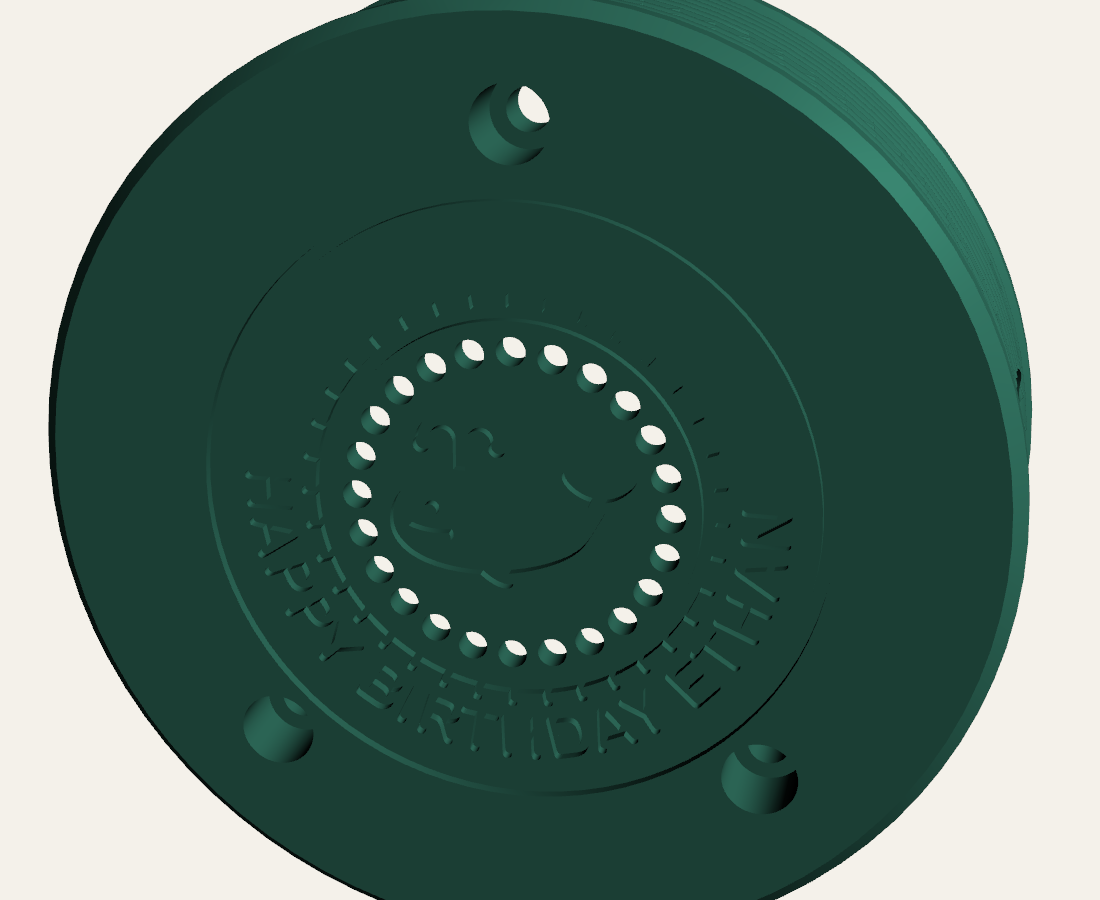
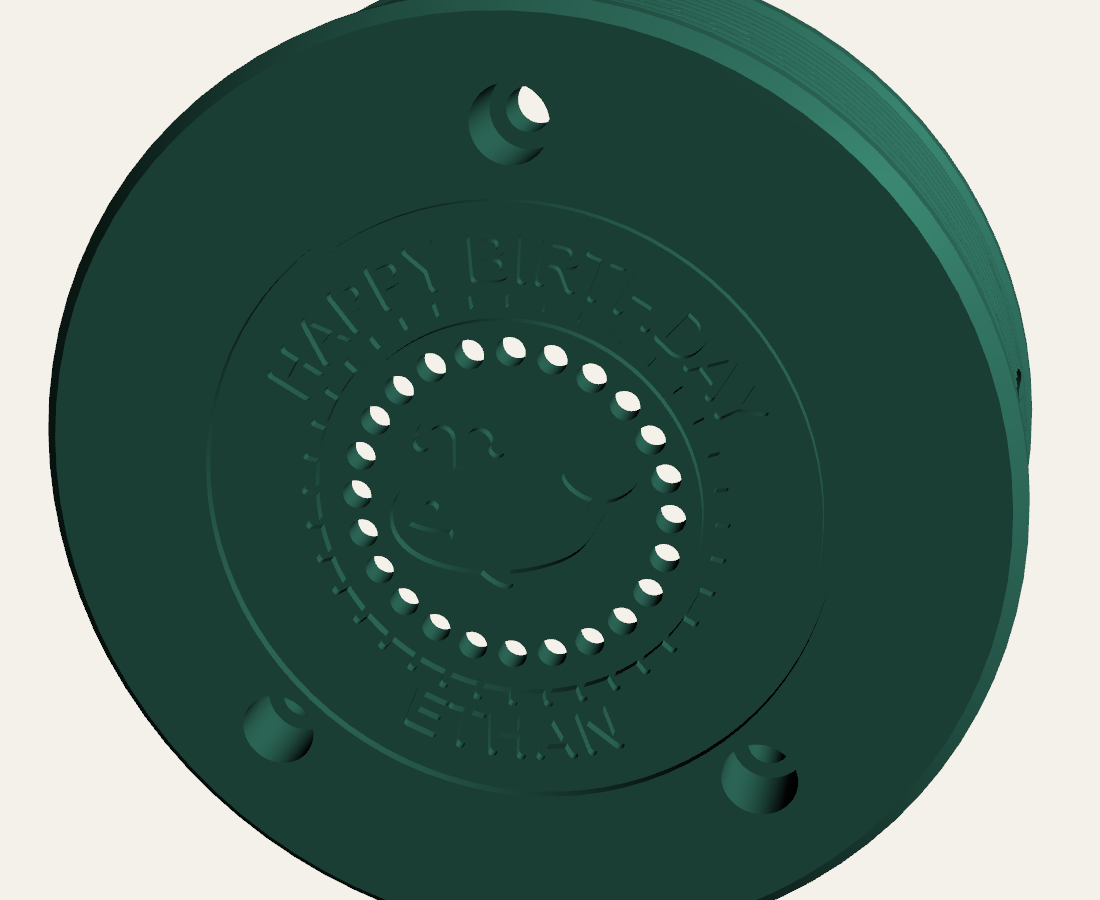
case: HAPPY BIRTHDAY arcs across the top of the back, ETHAN across the bottom

diff --git a/case/params.py b/case/params.py
@@ -49,8 +49,8 @@ SD_SLOT = True
 SD_SLOT_SIZE = (13.0, 2.0)
 
 # --- Back plate artwork (debossed, so it prints face down with no supports) ---------------
-TEXT_TOP = ""  # empty for none
-TEXT_BOTTOM = "HAPPY BIRTHDAY ETHAN"
+TEXT_TOP = "HAPPY BIRTHDAY"  # empty for none
+TEXT_BOTTOM = "ETHAN"
 FONT = "Arial Rounded MT Bold"
 TEXT_SIZE = 3.6
 TEXT_RADIUS = 13.6  # radius of the text centreline
